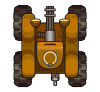
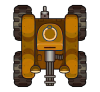
Se modifica la posición de los tanques y el movimiento.

diff --git a/Tank_Attack/mainwindow.cpp b/Tank_Attack/mainwindow.cpp
@@ -1,6 +1,8 @@
 #include "mainwindow.h"
 #include "GrafoWidget.h"
 #include <cmath>
+#include <QTimer>  // Incluir QTimer
+#include <iostream>  // Para imprimir en consola
 
 MainWindow::MainWindow(Grafo* grafo, QWidget *parent)
     : QMainWindow(parent), grafo(grafo) {
@@ -8,31 +10,27 @@ MainWindow::MainWindow(Grafo* grafo, QWidget *parent)
     GrafoWidget* grafoWidget = new GrafoWidget(this);
     grafoWidget->setGrafo(grafo);
 
-    // Calcular el centro del grafo en términos de coordenadas de pantalla
-    int centroX = width() / 2;
-    int centroY = height() / 2;
+    // Definir las posiciones visuales iniciales de los tanques
+    int posAmarilloX = 150;
+    int posAmarilloY = 150;
+    int posAzulX = 150;
+    int posAzulY = 450;
+    int posCelesteX = 350;
+    int posCelesteY = 150;
+    int posRojoX = 350;
+    int posRojoY = 450;
 
-    // Encontrar el nodo más cercano al centro
-    int nodoCercanoAlCentro = -1;
-    double distanciaMinima = std::numeric_limits<double>::max();
-    int numNodos = grafo->obtenerNumNodos();
+    // Encontrar los nodos más cercanos a estas posiciones
+    int nodoAmarillo = grafo->encontrarNodoCercano(posAmarilloX, posAmarilloY);
+    int nodoAzul = grafo->encontrarNodoCercano(posAzulX, posAzulY);
+    int nodoCeleste = grafo->encontrarNodoCercano(posCelesteX, posCelesteY);
+    int nodoRojo = grafo->encontrarNodoCercano(posRojoX, posRojoY);
 
-    for (int i = 0; i < numNodos; ++i) {
-        int x = grafo->getPosicionX(i);
-        int y = grafo->getPosicionY(i);
-        double distancia = std::sqrt(std::pow(x - centroX, 2) + std::pow(y - centroY, 2));
-
-        if (distancia < distanciaMinima) {
-            distanciaMinima = distancia;
-            nodoCercanoAlCentro = i;
-        }
-    }
-
-    // Crear los tanques y hacer que todos empiecen en el nodo más cercano al centro
-    TanqueAmarillo* tanqueAmarillo = new TanqueAmarillo(grafo, nodoCercanoAlCentro);
-    TanqueAzul* tanqueAzul = new TanqueAzul(grafo, nodoCercanoAlCentro);
-    TanqueCeleste* tanqueCeleste = new TanqueCeleste(grafo, nodoCercanoAlCentro);
-    TanqueRojo* tanqueRojo = new TanqueRojo(grafo, nodoCercanoAlCentro);
+    // Crear los tanques y asignarles sus posiciones iniciales (nodos correspondientes)
+    TanqueAmarillo* tanqueAmarillo = new TanqueAmarillo(grafo, nodoAmarillo);
+    TanqueAzul* tanqueAzul = new TanqueAzul(grafo, nodoAzul);
+    TanqueCeleste* tanqueCeleste = new TanqueCeleste(grafo, nodoCeleste);
+    TanqueRojo* tanqueRojo = new TanqueRojo(grafo, nodoRojo);
 
     // Pasar los tanques al GrafoWidget
     grafoWidget->setTanques(tanqueAmarillo, tanqueAzul, tanqueCeleste, tanqueRojo);
@@ -40,8 +38,24 @@ MainWindow::MainWindow(Grafo* grafo, QWidget *parent)
     // Establecer el tamaño de la ventana
     setFixedSize(1050, 720);
     setCentralWidget(grafoWidget);
+
+    // Iniciar el temporizador
+    timer = new QTimer(this);  // Crear el temporizador
+    connect(timer, &QTimer::timeout, this, &MainWindow::finalizarJuego);  // Conectar el temporizador con el slot
+    timer->start(300000);  // Establecer que se ejecute en 5 minutos (300,000 ms)
 }
 
 MainWindow::~MainWindow() {
     // Liberar memoria si es necesario
+}
+
+void MainWindow::finalizarJuego() {
+    // Detener el temporizador
+    timer->stop();
+
+    // Imprimir el mensaje en consola
+    std::cout << "Juego finalizado" << std::endl;
+
+    // Cerrar la ventana
+    close();
 }

diff --git a/Tank_Attack/main.cpp b/Tank_Attack/main.cpp
@@ -39,11 +39,11 @@ int main(int argc, char *argv[]) {
     TanqueRojo tanqueRojo(grafo, 3);
 
     // Establecer el nodo objetivo para todos los tanques
-    int nodoObjetivo = 100; // Nodo como objetivo para todos
+    /*int nodoObjetivo = 200; // Nodo como objetivo para todos
     tanqueAzul.setNodoObjetivo(nodoObjetivo);
     tanqueCeleste.setNodoObjetivo(nodoObjetivo);
     tanqueAmarillo.setNodoObjetivo(nodoObjetivo);
-    tanqueRojo.setNodoObjetivo(nodoObjetivo);
+    tanqueRojo.setNodoObjetivo(nodoObjetivo);*/
 
     // Función para mostrar la posición actual del tanque
     auto mostrarPosicion = [](const Tanque& tanque, const std::string& nombre) {
@@ -51,24 +51,24 @@ int main(int argc, char *argv[]) {
     };
 
     // Mostrar posiciones antes de mover
-    cout << "Antes de mover:" << std::endl;
+    //cout << "Antes de mover:" << std::endl;
     mostrarPosicion(tanqueAzul, "Tanque Azul");
     mostrarPosicion(tanqueCeleste, "Tanque Celeste");
     mostrarPosicion(tanqueAmarillo, "Tanque Amarillo");
     mostrarPosicion(tanqueRojo, "Tanque Rojo");
 
     // Realizar movimientos
-    tanqueAzul.mover();
+    /*tanqueAzul.mover();
     tanqueCeleste.mover();
     tanqueAmarillo.mover();
-    tanqueRojo.mover();
+    tanqueRojo.mover();*/
 
     // Mostrar posiciones después de mover
-    cout << "\nDespués de mover:" << endl;
+    /*cout << "\nDespués de mover:" << endl;
     mostrarPosicion(tanqueAzul, "Tanque Azul");
     mostrarPosicion(tanqueCeleste, "Tanque Celeste");
     mostrarPosicion(tanqueAmarillo, "Tanque Amarillo");
-    mostrarPosicion(tanqueRojo, "Tanque Rojo");
+    mostrarPosicion(tanqueRojo, "Tanque Rojo");*/
 
     // Ejecutar la aplicación Qt
     return a.exec();

diff --git a/Tank_Attack/GrafoWidget.cpp b/Tank_Attack/GrafoWidget.cpp
@@ -64,11 +64,10 @@ void GrafoWidget::paintEvent(QPaintEvent *event) {
         int x2 = grafo->getPosicionX(nodoFinal);
         int y2 = grafo->getPosicionY(nodoFinal);
 
-        // Dibuja la línea entre los nodos seleccionados
         painter.drawLine(QPoint(x1, y1), QPoint(x2, y2));
     }
 
-    // Dibujar los tanques en sus posiciones actuales
+    // Dibujar los tanques en sus posiciones actuales (en los nodos correspondientes)
     if (tanqueAmarillo) {
         int x = grafo->getPosicionX(tanqueAmarillo->obtenerNodoActual());
         int y = grafo->getPosicionY(tanqueAmarillo->obtenerNodoActual());
@@ -93,6 +92,7 @@ void GrafoWidget::paintEvent(QPaintEvent *event) {
         painter.drawPixmap(x - imgTanqueRojo.width() / 2, y - imgTanqueRojo.height() / 2, imgTanqueRojo);
     }
 }
+
 
 void GrafoWidget::mousePressEvent(QMouseEvent *event) {
     if (!grafo) return;

diff --git a/Tank_Attack/Grafo.cpp b/Tank_Attack/Grafo.cpp
@@ -82,6 +82,25 @@ void Grafo::generarMatriz(int ancho, int alto, int espaciado) {
     }
 }
 
+int Grafo::encontrarNodoCercano(int x, int y) {
+    int nodoCercano = -1;
+    double distanciaMinima = std::numeric_limits<double>::max();
+
+    for (int i = 0; i < numNodos; ++i) {
+        int nodoX = getPosicionX(i);
+        int nodoY = getPosicionY(i);
+        double distancia = std::sqrt(std::pow(x - nodoX, 2) + std::pow(y - nodoY, 2));
+
+        if (distancia < distanciaMinima) {
+            distanciaMinima = distancia;
+            nodoCercano = i;
+        }
+    }
+
+    return nodoCercano;
+}
+
+
 int Grafo::heuristica(int nodo1, int nodo2) {
     if (nodo1 >= 0 && nodo1 < numNodos && nodo2 >= 0 && nodo2 < numNodos) {
         // Calculamos la distancia euclidiana entre nodo1 y nodo2

diff --git a/Tank_Attack/mainwindow.h b/Tank_Attack/mainwindow.h
@@ -2,6 +2,7 @@
 #define MAINWINDOW_H
 
 #include <QMainWindow>
+#include <QTimer>  // Incluir la clase QTimer
 #include "Grafo.h"
 
 QT_BEGIN_NAMESPACE
@@ -17,9 +18,13 @@ public:
     explicit MainWindow(Grafo* grafo, QWidget *parent = nullptr);
     ~MainWindow();
 
+private slots:
+    void finalizarJuego();  // Slot que cierra la ventana y muestra el mensaje
+
 private:
     Ui::MainWindow *ui;
     Grafo* grafo;  // Puntero al grafo
+    QTimer* timer;  // Puntero al temporizador
 };
 
 #endif // MAINWINDOW_H

diff --git a/Tank_Attack/Grafo.h b/Tank_Attack/Grafo.h
@@ -23,6 +23,7 @@ public:
 
     // Mostrar la matriz de adyacencia
     void mostrarMatriz();
+    int encontrarNodoCercano(int nodo1, int nodo2);
 
     // Heurística para A* o cálculos de distancia
     int heuristica(int nodo1, int nodo2);
@@ -35,6 +36,7 @@ public:
     int obtenerPosY(int nodo) const;
     int getPosicionX(int nodo) const; // Alias de obtenerPosX (opcional)
     int getPosicionY(int nodo) const; // Alias de obtenerPosY (opcional)
+
 
     // Destructor
     ~Grafo();
